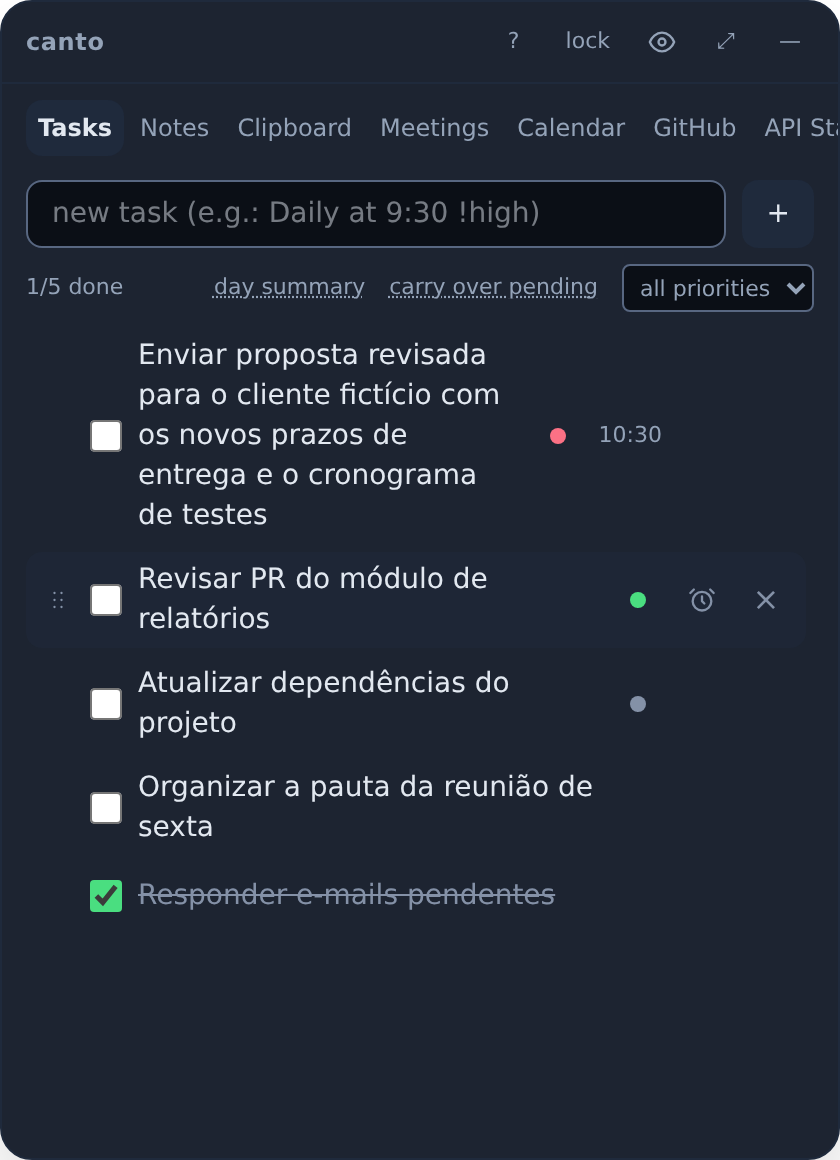
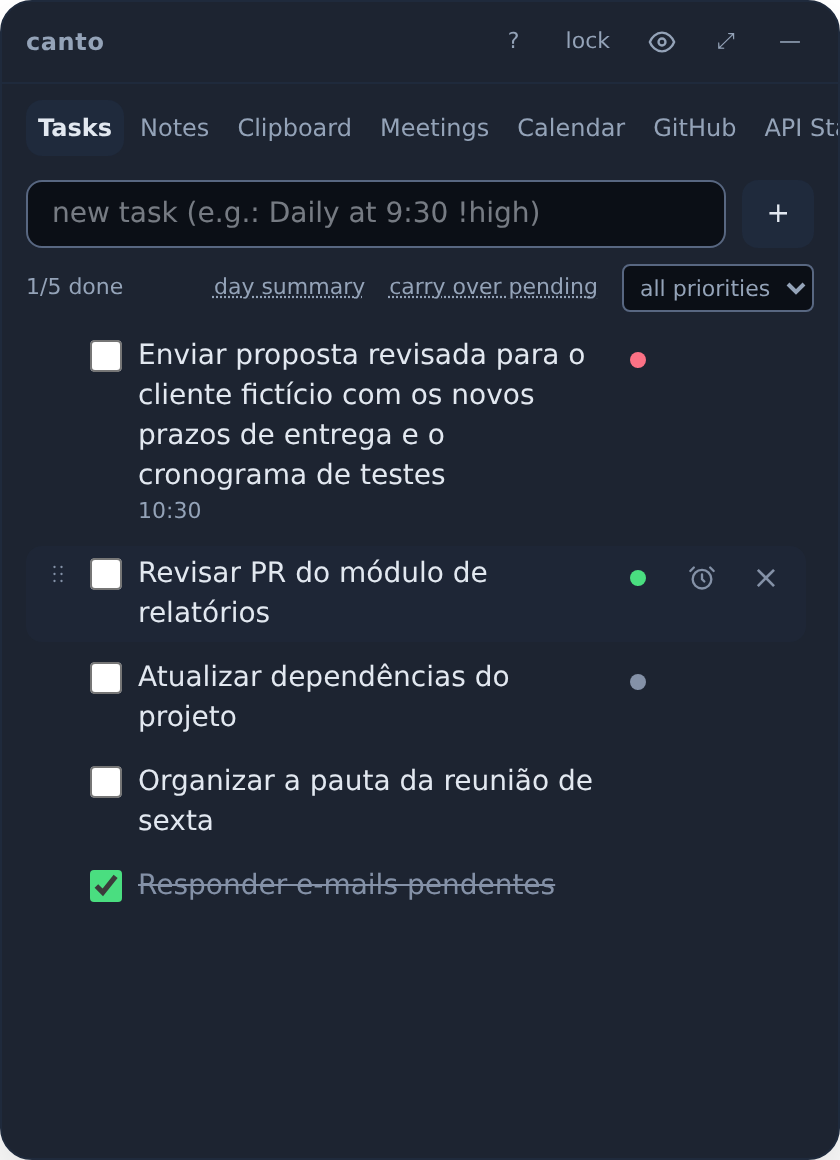
fix(tasks): move the row badges under the title so narrow windows keep it readable
A viewport sweep (8 sizes from the 360x440 minimum to 1920x1080, scale
1x-2x, pt-BR and en, every tab plus note editor, task details, open
event and palette) found no page scroll or element leaving the window,
but screenshots showed task titles squeezed to ~60 px at the minimum
size: time/repeat, subtasks and PR badges plus the row buttons took
~190 px of the 330 px row. Those badges now sit on a small line under
the title (~170 px wide there), and the row aligns to the top so the
checkbox stays on the first line of a wrapped title.

A new e2e layout test pins both: the title width at 360x440 (60 px
before this change), and no tab scrolling the page at 360x440 and
1920x1080. The e2e mock now answers github_status and drive_status with
objects, as Rust does, instead of null that crashed those tabs.

Claude-Session: https://claude.ai/code/session_01NvVAVLfigwZibdVop6P8CV

diff --git a/src/components/TaskDetails.tsx b/src/components/TaskDetails.tsx
@@ -81,7 +81,7 @@ export default function TaskDetails({
   );
 }
 
-/** Time and ↻ visible on the row, plus the button that opens the details. */
+/** The row's actions: the priority dot that cycles it, and the button that opens the details. */
 type BadgeProps = { task: Task; open: boolean; onToggle: () => void; onPriority: (priority: Priority | null) => void };
 
 export function TaskBadge({ task, open, onToggle, onPriority }: BadgeProps) {
@@ -98,32 +98,6 @@ export function TaskBadge({ task, open, onToggle, onPriority }: BadgeProps) {
       >
         <span className={`size-2 rounded-full ${task.priority ? PRIORITY_DOT[task.priority] : "border border-faint"}`} />
       </button>
-      {(task.hora || task.repetir || task.extended_repeat) && (
-        <span
-          className="shrink-0 text-[11px] text-muted"
-          title={task.repetir ? REPEAT_LABEL[task.repetir.tipo] : task.extended_repeat ? extendedLabel(task.extended_repeat) : undefined}
-        >
-          {task.hora}
-          {task.repetir && <span aria-label={t("repeat.repeats", { label: REPEAT_LABEL[task.repetir.tipo] })}> ↻</span>}
-          {task.extended_repeat && <span aria-label={t("repeat.repeats", { label: extendedLabel(task.extended_repeat) })}> ↻</span>}
-        </span>
-      )}
-      {task.subtasks && task.subtasks.length > 0 && (
-        <span className="shrink-0 text-[11px] text-muted" title={t("tasks.subtasks")}>
-          {task.subtasks.filter((s) => s.done).length}/{task.subtasks.length}
-        </span>
-      )}
-      {task.pr_url && (
-        <button
-          type="button"
-          onClick={() => void api.openLink(task.pr_url!)}
-          className="grid size-6 shrink-0 place-items-center rounded text-faint hover:text-fg"
-          aria-label={t("tasks.openPrOf", { title: task.title })}
-          title={t("tasks.openPr")}
-        >
-          <PullIcon />
-        </button>
-      )}
       <button
         type="button"
         onClick={onToggle}
@@ -135,5 +109,42 @@ export function TaskBadge({ task, open, onToggle, onPriority }: BadgeProps) {
         <ClockIcon />
       </button>
     </>
+  );
+}
+
+/** Time, ↻, subtask count and PR under the title: on the right they left a narrow window almost no room for it. */
+export function TaskMeta({ task }: { task: Task }) {
+  const timed = task.hora || task.repetir || task.extended_repeat;
+  const subtasks = task.subtasks && task.subtasks.length > 0;
+  if (!timed && !subtasks && !task.pr_url) return null;
+  return (
+    <span className="flex flex-wrap items-center gap-x-2">
+      {timed && (
+        <span
+          className="shrink-0 text-[11px] text-muted"
+          title={task.repetir ? REPEAT_LABEL[task.repetir.tipo] : task.extended_repeat ? extendedLabel(task.extended_repeat) : undefined}
+        >
+          {task.hora}
+          {task.repetir && <span aria-label={t("repeat.repeats", { label: REPEAT_LABEL[task.repetir.tipo] })}> ↻</span>}
+          {task.extended_repeat && <span aria-label={t("repeat.repeats", { label: extendedLabel(task.extended_repeat) })}> ↻</span>}
+        </span>
+      )}
+      {subtasks && (
+        <span className="shrink-0 text-[11px] text-muted" title={t("tasks.subtasks")}>
+          {task.subtasks!.filter((s) => s.done).length}/{task.subtasks!.length}
+        </span>
+      )}
+      {task.pr_url && (
+        <button
+          type="button"
+          onClick={() => void api.openLink(task.pr_url!)}
+          className="grid size-5 shrink-0 place-items-center rounded text-faint hover:text-fg"
+          aria-label={t("tasks.openPrOf", { title: task.title })}
+          title={t("tasks.openPr")}
+        >
+          <PullIcon />
+        </button>
+      )}
+    </span>
   );
 }

diff --git a/src/components/TaskRow.tsx b/src/components/TaskRow.tsx
@@ -1,6 +1,6 @@
 import { t } from "../i18n";
 import type { ExtendedRepeat, Priority, Repeat, Task } from "../lib/api";
-import TaskDetails, { TaskBadge } from "./TaskDetails";
+import TaskDetails, { TaskBadge, TaskMeta } from "./TaskDetails";
 import TaskSubtasks from "./TaskSubtasks";
 import { GripIcon } from "./Icons";
 import { ENTER_CLASS, EXIT_CLASS } from "../lib/motion";
@@ -71,7 +71,7 @@ export default function TaskRow({
         data-reorder-id={draggable ? task.id : undefined}
         onPointerEnter={draggable ? onDragHover : undefined}
         onPointerMove={draggable ? onDragHover : undefined}
-        className={`group flex items-center gap-2 rounded-lg px-2 py-1 hover:bg-edge/50 ${isNew ? ENTER_CLASS : ""} ${
+        className={`group flex items-start gap-2 rounded-lg px-2 py-1 hover:bg-edge/50 ${isNew ? ENTER_CLASS : ""} ${
           isLeaving ? EXIT_CLASS : ""
         } ${dragging ? "opacity-50" : ""} ${dropTarget ? "ring-1 ring-accent" : ""}`}
       >
@@ -91,7 +91,7 @@ export default function TaskRow({
             }}
             aria-label={t("tasks.dragLabel", { title: task.title })}
             title={t("tasks.dragHint")}
-            className="grid size-4 shrink-0 cursor-grab touch-none place-items-center text-faint opacity-0 hover:text-fg focus-visible:opacity-100 group-hover:opacity-100"
+            className="mt-0.5 grid size-4 shrink-0 cursor-grab touch-none place-items-center text-faint opacity-0 hover:text-fg focus-visible:opacity-100 group-hover:opacity-100"
           >
             <GripIcon />
           </button>
@@ -101,7 +101,7 @@ export default function TaskRow({
           checked={task.done}
           onChange={onToggleDone}
           onAnimationEnd={onCheckAnimationEnd}
-          className={`size-4 accent-[var(--color-accent)] ${checking ? "motion-safe:animate-marcar" : ""}`}
+          className={`mt-0.5 size-4 shrink-0 accent-[var(--color-accent)] ${checking ? "motion-safe:animate-marcar" : ""}`}
         />
         {editing?.id === task.id ? (
           <input
@@ -116,12 +116,15 @@ export default function TaskRow({
             className="flex-1 rounded border border-accent bg-ink px-1 py-0.5 text-sm text-fg outline-none"
           />
         ) : (
-          <span
-            className={`min-w-0 flex-1 whitespace-pre-wrap break-words text-sm ${task.done ? "text-faint line-through" : "text-fg"}`}
-            title={t("tasks.renameHint", { title: task.title })}
-            onDoubleClick={onStartEdit}
-          >
-            {task.title}
+          <span className="flex min-w-0 flex-1 flex-col">
+            <span
+              className={`whitespace-pre-wrap break-words text-sm ${task.done ? "text-faint line-through" : "text-fg"}`}
+              title={t("tasks.renameHint", { title: task.title })}
+              onDoubleClick={onStartEdit}
+            >
+              {task.title}
+            </span>
+            <TaskMeta task={task} />
           </span>
         )}
         <TaskBadge task={task} open={detailsOpen} onToggle={onToggleDetails} onPriority={onPriority} />

diff --git a/e2e/layout.e2e.ts b/e2e/layout.e2e.ts
@@ -1,0 +1,50 @@
+import { expect, test, type Page } from "@playwright/test";
+import { mockTauri } from "./mock";
+
+const LONG = "Revisar a proposta comercial do cliente fictício com os novos prazos de entrega e o cronograma de testes";
+const TABS = ["Tarefas", "Notas", "Clipboard", "Reuniões", "Agenda", "GitHub", "Status API", "Ajustes"];
+
+/** A task carrying every row badge (time, ↻, subtasks, PR): the widest row the list can get. */
+async function seedBusyTask(page: Page) {
+  await page.addInitScript((title: string) => {
+    const d = new Date();
+    const day = `${d.getFullYear()}-${String(d.getMonth() + 1).padStart(2, "0")}-${String(d.getDate()).padStart(2, "0")}`;
+    const task = {
+      id: "t1", title, done: false, day, created_at: 1, updated_at: 1, hora: "10:30", repetir: { tipo: "diaria" },
+      priority: "high", pr_url: "https://github.com/exemplo/app/pull/1",
+      subtasks: [{ id: "s1", title: "a", done: true }, { id: "s2", title: "b", done: false }],
+    };
+    if (!sessionStorage.getItem("e2e.tasks")) sessionStorage.setItem("e2e.tasks", JSON.stringify([task]));
+  }, LONG);
+}
+
+test("at the minimum window size a long task title keeps most of the row", async ({ page }) => {
+  await page.setViewportSize({ width: 360, height: 440 });
+  await seedBusyTask(page);
+  await mockTauri(page, { hiddenTabs: ["gitlab"] });
+  await page.goto("/");
+  const title = page.getByText(LONG);
+  await expect(title).toBeVisible();
+  const box = (await title.boundingBox())!;
+  // The row is ~330 px; badges on the right used to squeeze the title into ~60 px, one word per line.
+  expect(box.width).toBeGreaterThan(150);
+});
+
+for (const [width, height] of [[360, 440], [1920, 1080]]) {
+  test(`no tab scrolls the whole page at ${width}x${height}`, async ({ page }) => {
+    await page.setViewportSize({ width, height });
+    await seedBusyTask(page);
+    await mockTauri(page, { hiddenTabs: ["gitlab"] });
+    await page.goto("/");
+    await expect(page.getByRole("tab", { name: "Tarefas" })).toHaveAttribute("aria-selected", "true");
+    for (const name of TABS) {
+      await page.getByRole("tab", { name, exact: true }).click();
+      await expect(page.getByRole("tab", { name, exact: true })).toHaveAttribute("aria-selected", "true");
+      const overflow = await page.evaluate(() => {
+        const de = document.documentElement;
+        return { x: de.scrollWidth - innerWidth, y: de.scrollHeight - innerHeight };
+      });
+      expect(overflow, name).toEqual({ x: 0, y: 0 });
+    }
+  });
+}

diff --git a/e2e/mock.ts b/e2e/mock.ts
@@ -39,6 +39,9 @@ export async function mockTauri(page: Page, opts: MockOptions = {}) {
       notes_search: { total: o.notes?.length ?? 0, items: o.notes ?? [] },
       clip_list: { items: [], max_pinned: 100 },
       agenda_today: [],
+      // Rust always answers these with an object; null would crash the tabs, not test them.
+      github_status: { connected: false, login: "", source: "", device_flow: false },
+      drive_status: { configured: false, connected: false, email: "" },
     };
     let callbackId = 1;
     const w = window as unknown as Record<string, unknown>;

diff --git a/README.md b/README.md
@@ -218,7 +218,7 @@ And **Follow system**, which switches between light and dark along with the OS. 
 
 | Tasks: priority on the row, long titles wrap | Notes list with rendered markdown |
 |---|---|
-| ![Task list where each row shows its priority dot and a long title wraps over several lines](docs/prints/app/45-tarefas-prioridade.png) | ![Note cards showing a heading, a checklist, a code block and a numbered list rendered instead of raw markdown](docs/prints/app/46-notas-card-markdown.png) |
+| ![Task list where each row shows its priority dot, a long title wraps over several lines and the time sits under the title](docs/prints/app/45-tarefas-prioridade.png) | ![Note cards showing a heading, a checklist, a code block and a numbered list rendered instead of raw markdown](docs/prints/app/46-notas-card-markdown.png) |
 
 </details>
 

diff --git a/CHANGELOG.md b/CHANGELOG.md
@@ -103,6 +103,8 @@ versões em [SemVer](https://semver.org/lang/pt-BR/).
 
 ### Corrigido
 
+- **Tarefa em janela estreita**: com horário, ↻, subtarefas e PR na mesma linha, o título ficava com ~60 px na
+  janela mínima (360 px), uma palavra por linha. Esses selos agora ficam numa linha menor abaixo do título.
 - **Título longo de tarefa** não some mais cortado com reticências: quebra em quantas linhas precisar.
 - **Imagens nas notas** só apareciam no modo "pré-visualizar" do editor: o card mostrava "[imagem]" e o modo
   "escrever" só o código `![](canto-img:…)`. Agora o card e o editor mostram as imagens como miniaturas.
